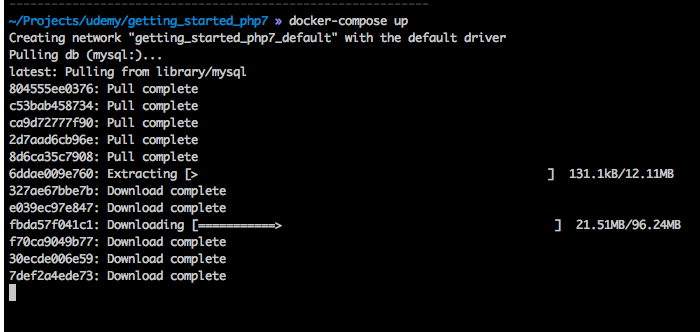
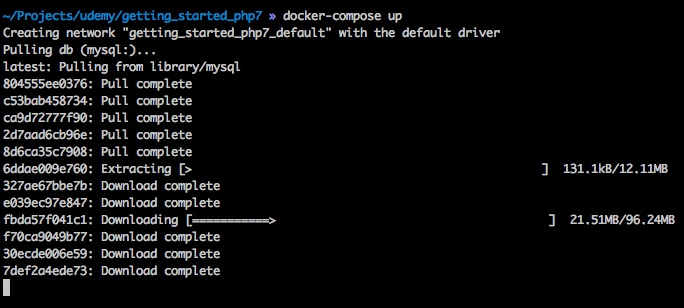
Add screenshots

Changed region(s): [[0.0, 0.0, 0.7368, 1.0], [0.7982, 0.6429, 1.0, 0.7305], [0.7675, 0.4968, 0.9825, 0.5844]]

diff --git a/README.md b/README.md
@@ -15,10 +15,16 @@ I ran this on MacOS High Sierra 10.13.6, with Docker version 2.1.0.5.
 3. Open terminal and go to directory containing the **docker-compose.yml**
 4. Run `docker-compose up`
 
+![](https://raw.githubusercontent.com/martinsberents/docker_php7_nginx_mysql/master/assets/docker-compose-up.png)
+
 **N.B.** On the first run it will download all the necessary Docker images and because we have a bit modified php image, it will install the _pdo_mysql_ extension. If everything goes right, container for each of the service will be created.
+
+![](https://raw.githubusercontent.com/martinsberents/docker_php7_nginx_mysql/master/assets/docker-compose-up-done.png)
 
 5. In browser, open http://localhost:8080 . You should see the output of `phpinfo()`
 6. Run `docker-compose down` to stop (and remove) the containers
+
+![](https://raw.githubusercontent.com/martinsberents/docker_php7_nginx_mysql/master/assets/docker-compose-down.png)
 
 **NOTES**
 --
